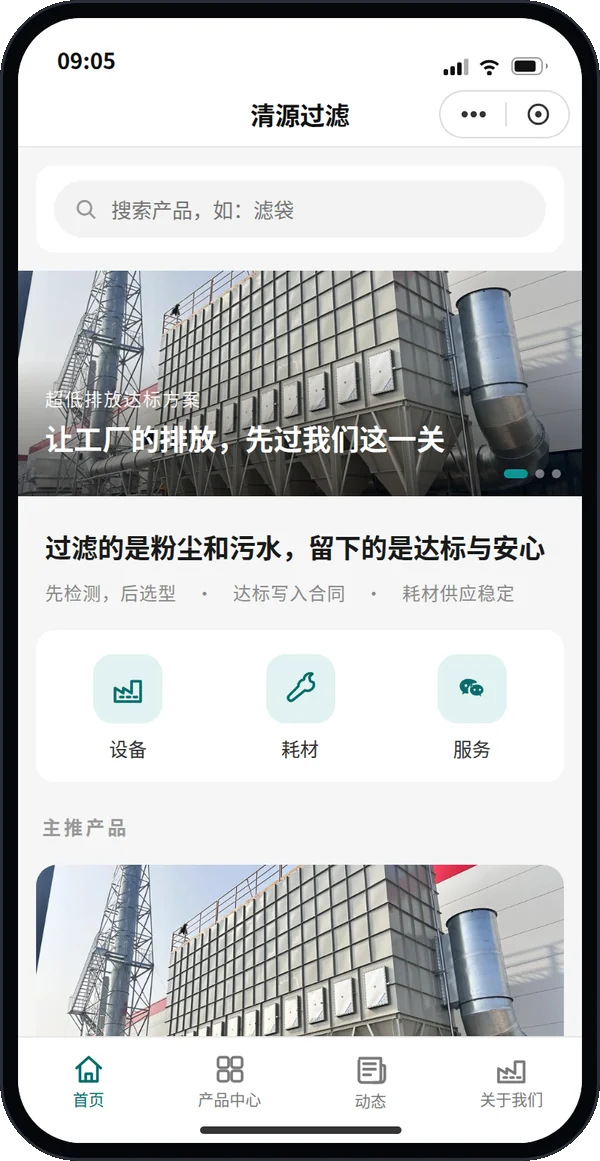
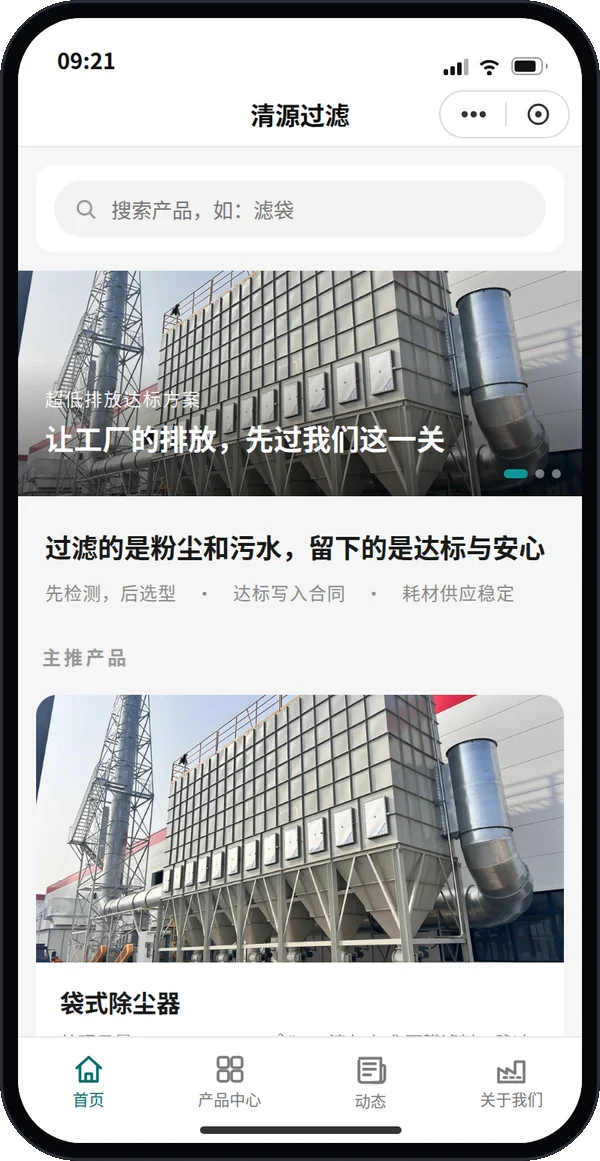
MP-S1 第十轮：金刚区图格化与数量落档（上图下名/主流档{4,5,8,10}/向下取舍/非产品分类排除/不足4整区不渲染）+ 门户 S1 卡图刷新

Changed region(s): [[0.06, 0.5581, 0.96, 0.8992], [0.15, 0.031, 0.21, 0.062]]

diff --git a/mp/index.html b/mp/index.html
@@ -76,9 +76,11 @@
   .swiper .dots{ position:absolute; right:14px; bottom:12px; display:flex; gap:5px; }
   .swiper .dots i{ width:6px; height:6px; border-radius:99px; background:rgba(255,255,255,.45); }
   .swiper .dots i.on{ width:16px; background:var(--brand); }
-  .grid4{ display:flex; background:#fff; border-radius:12px; margin:12px 12px 0; padding:16px 4px 13px; }
-  .gitem{ flex:1; display:flex; flex-direction:column; align-items:center; gap:7px; cursor:pointer; }
-  .gitem .ic{ width:46px; height:46px; border-radius:13px; background:var(--brand-tint); display:flex; align-items:center; justify-content:center; color:var(--brand-dark); }
+  .grid4{ display:grid; background:#fff; border-radius:12px; margin:12px 12px 0; padding:14px 10px 12px; gap:12px 8px; }
+  .grid4.c4{ grid-template-columns:repeat(4,1fr); }
+  .grid4.c5{ grid-template-columns:repeat(5,1fr); }
+  .gitem{ display:flex; flex-direction:column; align-items:center; gap:6px; cursor:pointer; min-width:0; }
+  .gitem img{ width:100%; aspect-ratio:4/3; object-fit:cover; border-radius:9px; display:block; background:#f2f2f2; }
   .gitem .lb{ font-size:12.5px; color:#333; }
   .stats{ display:flex; background:var(--ink); border-radius:12px; margin:12px 12px 0; padding:17px 6px 14px; }
   .stats .st{ flex:1; text-align:center; }
@@ -89,7 +91,7 @@
   .strength .s-k{ font-size:11px; letter-spacing:2px; color:var(--sub); font-weight:700; margin-bottom:7px; }
   .strength .s-t{ font-size:14.5px; color:#333; line-height:1.8; }
   .stream .strength{ margin:16px 0 0; }
-  /* 首页流（第七轮，第九轮修订）：主张提炼行 / 金刚区（产品分类格）/ Pickup / 规格 chips / 流尾 */
+  /* 首页流（第七轮，第十轮修订）：主张提炼行 / 金刚区（产品分类图格：上图下名）/ Pickup / 规格 chips / 流尾 */
   .hero-claim{ padding:20px 18px 2px; }
   .hero-claim .hc-t{ font-size:17.5px; font-weight:700; color:#1a1a1a; line-height:1.55; }
   .hero-claim .hc-line{ margin-top:7px; font-size:12px; color:var(--sub); letter-spacing:.5px; line-height:1.7; }
@@ -258,7 +260,7 @@
       <h3>样板构成</h3>
       <ul>
         <li>骨架：MP-S1 展示型 · 企业官网经典 4 栏（用户定版 tab 架构标准：微信规范 2–5 栏、落地主流 3–4 栏）</li>
-        <li>栏位：首页（app 信息流：搜索 → 瘦身 Banner → 主张提炼行 → 金刚区（只放产品分类：图标 + 分类原名，点击预筛产品中心，数据驱动、与展示预设无关）→ Pickup 精选与产品流（分类大图卡已于第九轮取消）→ 企业实力聚合区（按展示配置动态渲染楼层：有啥展示啥、无数据不留空板块，楼层均为预览入口 + 锚点深链）→ 底部转化区）· 产品中心（分类 / 规格参数 / 询价，核心转化区）· 动态（信任背书：案例与企业动态，全文单点落此栏）· 关于我们（简介全文 / 工厂实景与资质荣誉 / 地址导航 / 联系方式 / 在线留资表单）</li>
+        <li>栏位：首页（app 信息流：搜索 → 瘦身 Banner → 主张提炼行 → 金刚区（只放产品分类：上产品图 + 下分类名，格数只用主流档 4/5/8/10、向下取舍、产品分类不足 4 个整区不渲染，点击预筛产品中心，数据驱动、与展示预设无关）→ Pickup 精选与产品流（分类大图卡已于第九轮取消）→ 企业实力聚合区（按展示配置动态渲染楼层：有啥展示啥、无数据不留空板块，楼层均为预览入口 + 锚点深链）→ 底部转化区）· 产品中心（分类 / 规格参数 / 询价，核心转化区）· 动态（信任背书：案例与企业动态，全文单点落此栏）· 关于我们（简介全文 / 工厂实景与资质荣誉 / 地址导航 / 联系方式 / 在线留资表单）</li>
         <li>转化设计：产品详情页与关于我们页固定悬浮一键拨号 + 在线客服（动作不印号码）；联系方式全文只在关于我们出现一处</li>
         <li id="specPack">内容包：机械设备 · 恒力重工（与官网演示站同一份数据）</li>
         <li id="specAccent">主题色：内容包品牌 accent 安全黄 #E4AF00</li>
@@ -398,32 +400,35 @@ function strengthHTML() {
   if (!P.why_intro) return "";
   return '<div class="strength"><div class="s-k">企业实力</div><div class="s-t">' + esc(P.why_intro) + "</div></div>";
 }
-/* 金刚区（第九轮定版，用户选定 B 方案）：只放产品分类——单维度，取当前包产品数据自身的
-   分类（products[].cat），按产品数降序（同数按首次出现序）取前 4，图标 + 分类原名；
-   每格为携上下文深链，点击切产品中心并预筛该分类（goProducts，与原大图卡 W1 同一机制）。
-   分类不足有几个放几个，不拿栏目/组件/动作凑数；无分类则整区不渲染。
+/* 金刚区（第十轮定版）：只放产品分类，格子形态 = 上产品图 + 下分类名（不再用图标格）。
+   - 分类集合与计数取当前包产品数据自身的分类（products[].cat）；服务/售后/维修等非产品分类
+     一律排除（含此类名者不入格）；承载可售产品/业务线的分类（如加工、机加工）属产品分类，保留。
+   - 格数只用主流档 {4, 5, 8, 10}（单行 4/5、双行 8=4 列 ×2、10=5 列 ×2）：实际产品分类数恰为
+     合法档用原数；多于某档、不足下一档时向下取舍到最大合法档（6、7 类→5 类，9 类→8 类，>10→10 类），
+     入选分类按产品数降序（同数按首次出现序）；产品分类不足 4 个 → 整区不渲染（不凑数、不留占位）。
+   - 每格顶部图 = 该分类下首个产品的图，固定比例（4:3）cover 裁切；每格为携上下文深链，
+     点击切产品中心并预筛该分类（goProducts，与原大图卡 W1 同一机制）。
    金刚区由产品数据驱动、与展示配置（预设）无关——packs-display 的 quick 字段已废弃移除。 */
-const CAT_ICON_RULES = [
-  [/整机|设备|产线/, "factory"],
-  [/零部件|属具|耗材|模具|机加工|钣金|注塑|表面处理|加工|改造|集成|电控/, "wrench"],
-  [/板材|型材|塑料|树脂|胶粘|复合材料|助剂|检测/, "layers"],
-  [/家具|空间|定制|礼品/, "home"],
-  [/服务/, "wechat"]
-];
-function catIcon(cat) {
-  for (const [re, ic] of CAT_ICON_RULES) if (re.test(cat)) return IC[ic];
-  return IC.grid;
-}
+const NON_PRODUCT_CAT = /服务|售后|维修/;
+const TILE_TIERS = [4, 5, 8, 10];
+function tileTier(n) { let t = 0; for (const x of TILE_TIERS) if (n >= x) t = x; return t; }
 function topCats() {
-  const seq = [], cnt = {};
-  P.products.forEach(p => { if (!(p.cat in cnt)) { cnt[p.cat] = 0; seq.push(p.cat); } cnt[p.cat]++; });
-  return seq.map((c, i) => ({ c, n: cnt[c], i })).sort((a, b) => b.n - a.n || a.i - b.i).slice(0, 4).map(x => x.c);
+  const seq = [], cnt = {}, rep = {};
+  P.products.forEach(p => {
+    if (NON_PRODUCT_CAT.test(p.cat)) return;
+    if (!(p.cat in cnt)) { cnt[p.cat] = 0; seq.push(p.cat); rep[p.cat] = p.img; }
+    cnt[p.cat]++;
+  });
+  const ranked = seq.map((c, i) => ({ c, n: cnt[c], i, img: rep[c] }))
+    .sort((a, b) => b.n - a.n || a.i - b.i);
+  return ranked.slice(0, tileTier(ranked.length));
 }
 function quickHTML() {
-  const cats = topCats();
-  if (!cats.length) return "";
-  return '<div class="grid4">' + cats.map(c =>
-    `<div class="gitem" data-catnav="${esc(c)}"><span class="ic">${catIcon(c)}</span><span class="lb">${esc(c)}</span></div>`).join("") + "</div>";
+  const tiles = topCats();
+  if (!tiles.length) return "";
+  const cols = tiles.length <= 5 ? tiles.length : (tiles.length === 8 ? 4 : 5);
+  return `<div class="grid4 c${cols}">` + tiles.map(t =>
+    `<div class="gitem" data-catnav="${esc(t.c)}"><img src="${esc(t.img)}" alt=""><span class="lb">${esc(t.c)}</span></div>`).join("") + "</div>";
 }
 function floorHead(key, more) {
   return `<div class="floor-head"><b>${COMP_LABEL[key]}</b>${more === false ? "" : `<span class="more" data-anchor="${key}">查看更多 ${IC.chevR}</span>`}</div>`;
@@ -463,8 +468,8 @@ function ctaHTML() {
     </div>
   </div>`;
 }
-/* 首页（第八轮：展示配置与首页动态映射；第九轮：金刚区单维度化）——骨架定版：搜索（携参深链）→ 瘦身 Banner + 主张提炼行
-   → 金刚区（只放产品分类，数据驱动）→ 核心产品（Pickup 精选与产品流；分类大图卡已取消，分类入口统一归金刚区）
+/* 首页（第八轮：展示配置与首页动态映射；第九轮：金刚区单维度化；第十轮：金刚区图格化与数量落档）——骨架定版：搜索（携参深链）→ 瘦身 Banner + 主张提炼行
+   → 金刚区（只放产品分类：上图下名、主流档落数，数据驱动）→ 核心产品（Pickup 精选与产品流；分类大图卡已取消，分类入口统一归金刚区）
    → 企业实力聚合区（配置驱动的动态楼层）→ 底部转化区。
    内容决定模块生灭：楼层由展示配置（packs-display）与内容池数据共同决定，有啥展示啥。 */
 function renderHome() {
